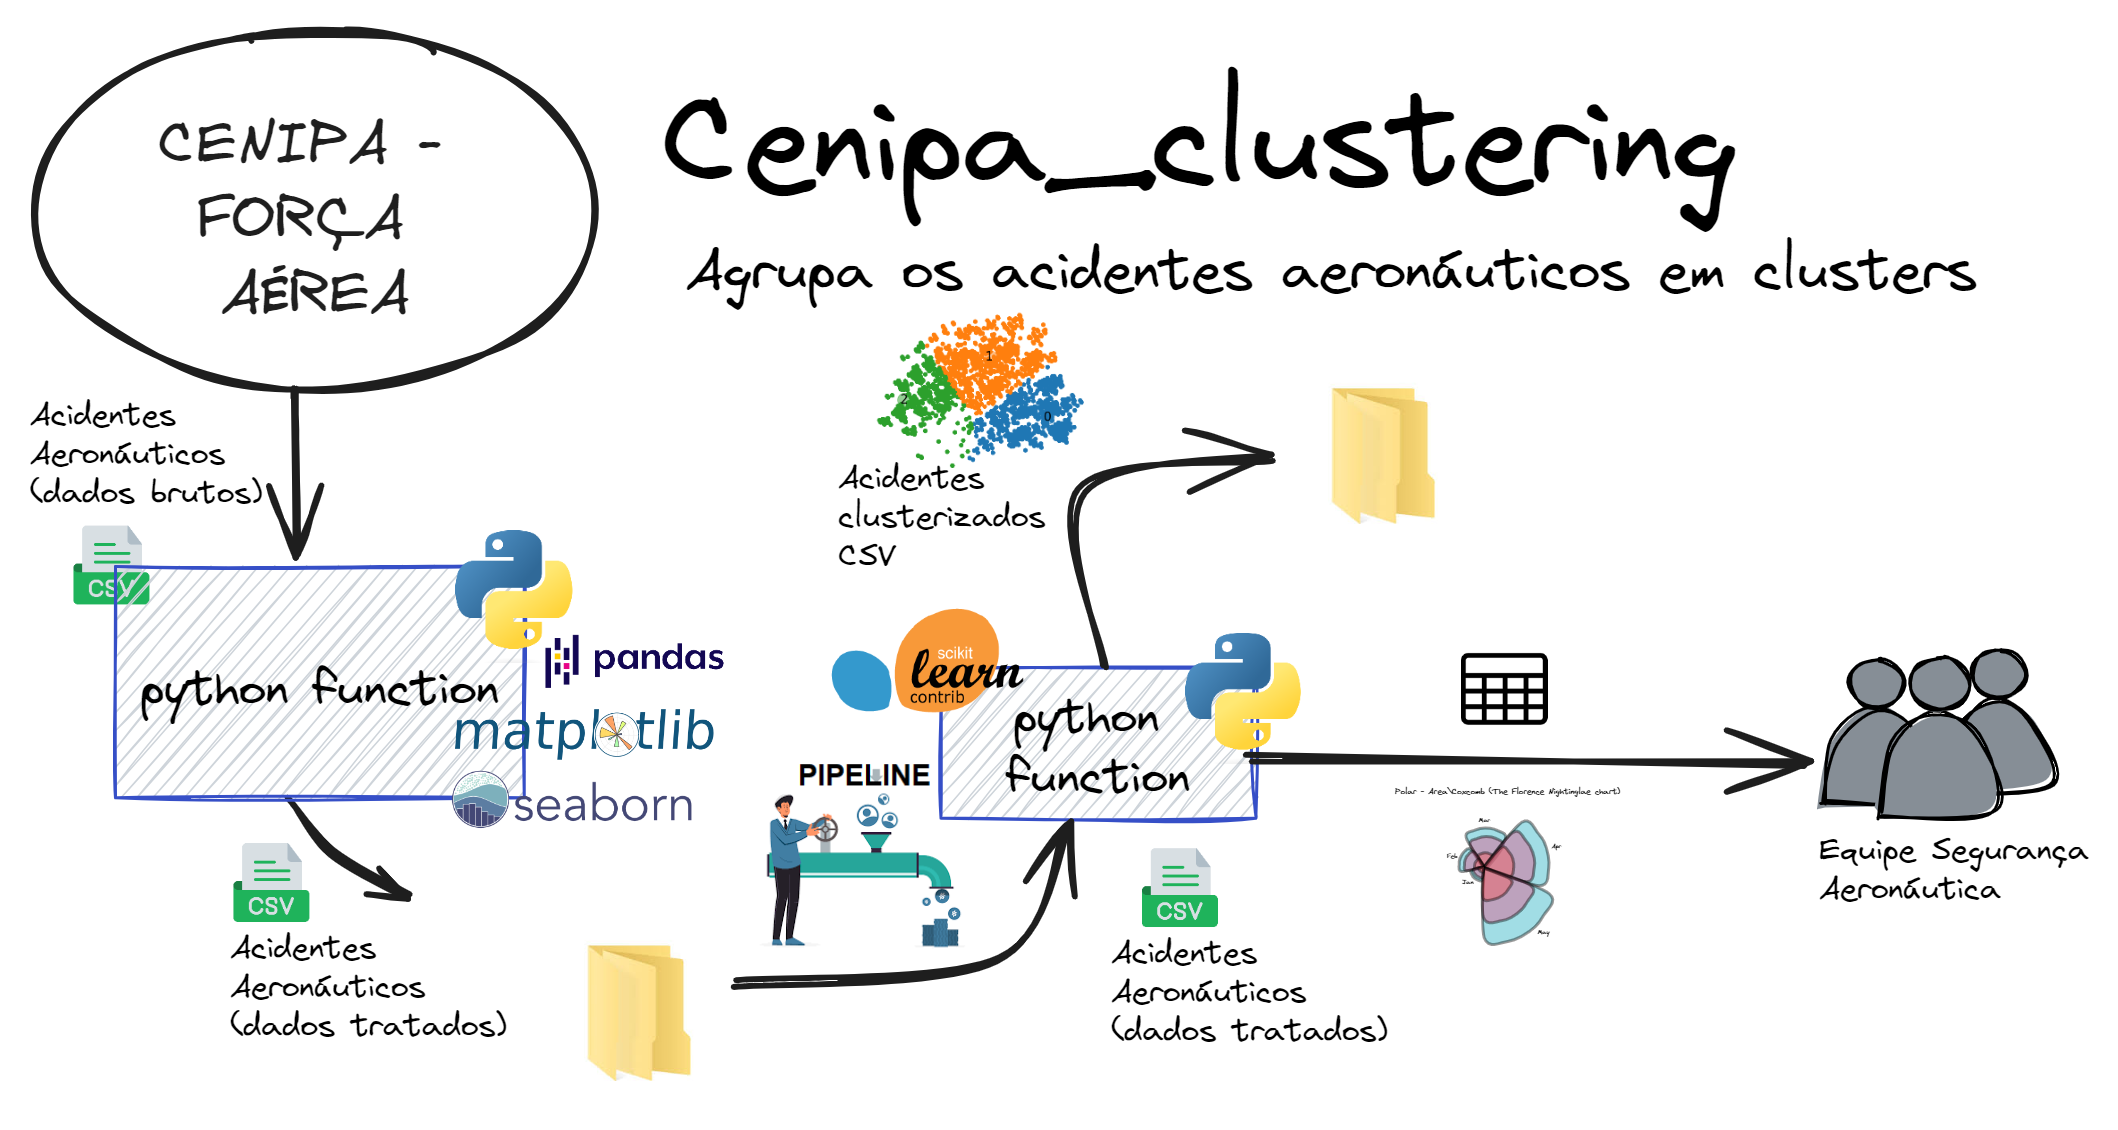
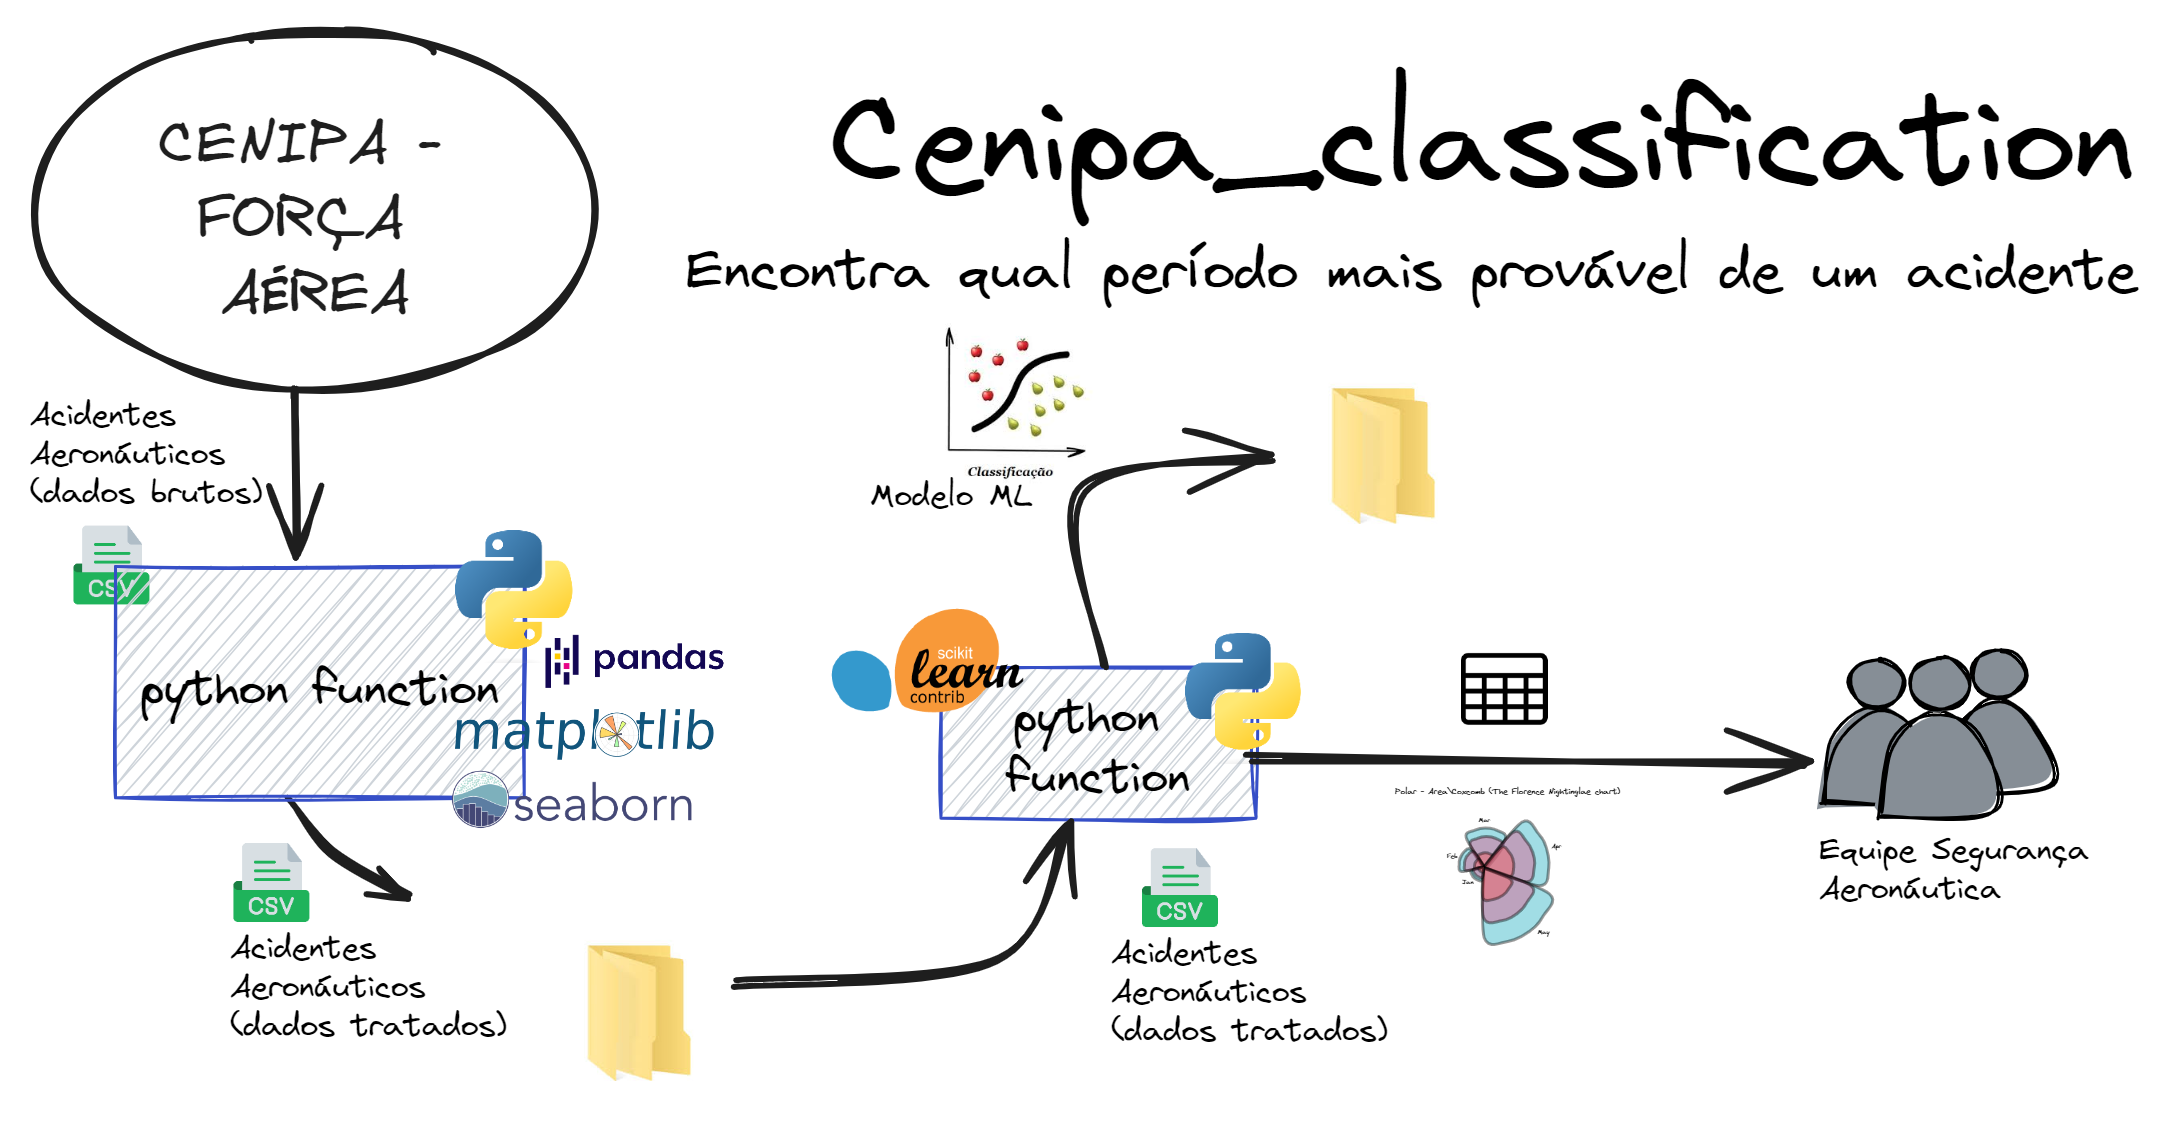
v 2.0
corrige diagrama projeto e readme

diff --git a/README.md b/README.md
@@ -1,10 +1,10 @@
-# Cenipa_clustering
+# Cenipa_classification
 
-![Imagem de Aviao](https://github.com/jairobernardesjunior/Cenipa_clustering/blob/main/acidente_mendonca.jpeg)
+![Imagem de Aviao](https://github.com/jairobernardesjunior/Cenipa_clustering/blob/main/acidente_classification.jpeg)
  
 ## Treina modelo de classificação para saber qual o período do dia seria mais provável de acontecer o acidente.
 
-Este projeto tem como objetivo não em saber se haverá ou não acidente aeronáutico, mas se houver, qual o período teria a maior probabilidade de acontecer, podendo assim auxiliar no planejamento de segurança de voos, reduzindo a probabilidade de ocorrência de um acidente aeronáutico. 
+Este projeto tem como objetivo não em saber se haverá ou não acidente aeronáutico, mas qual o período teria a maior probabilidade de acontecer, podendo assim auxiliar no planejamento de segurança de voos, reduzindo a probabilidade de ocorrência de um acidente aeronáutico. 
 
 Os dados utilizados nesse projeto foram analisados, limpos e tratados no projeto:
 https://github.com/jairobernardesjunior/Cenipa_limpa_trata_armazena
